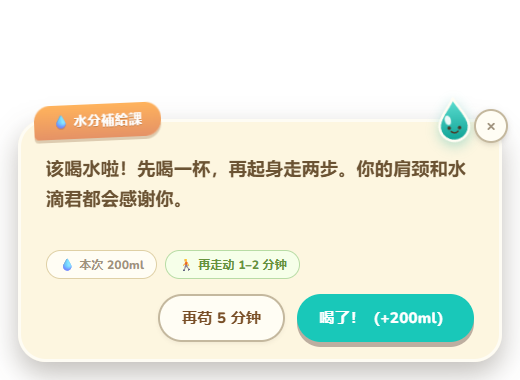
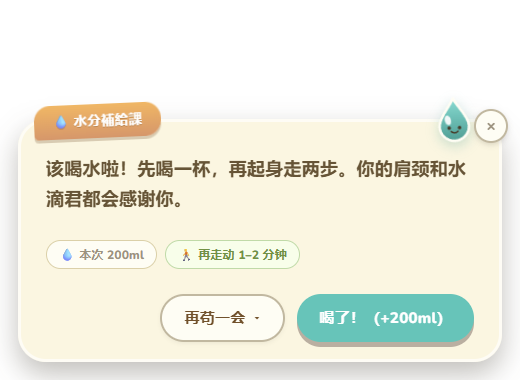
release: prepare v1.3.0

diff --git a/test/release-workflow.test.js b/test/release-workflow.test.js
@@ -61,12 +61,27 @@ test('release workflow validates a stable main-branch tag and publishes one port
   assert.match(workflow, /GH_TOKEN:\s*\$\{\{\s*secrets\.GITHUB_TOKEN\s*\}\}/);
 });
 
-test('download and maintainer release documentation expose the release contract', () => {
+test('v1.3.0 download and maintainer documentation expose the release contract', () => {
   const readme = readRequired('README.md');
   const releasing = readRequired('docs/RELEASING.md');
+  const packageJson = JSON.parse(readRequired('package.json'));
+  const packageLock = JSON.parse(readRequired('package-lock.json'));
 
+  assert.equal(packageJson.version, '1.3.0');
+  assert.equal(packageLock.version, '1.3.0');
+  assert.equal(packageLock.packages[''].version, '1.3.0');
   assert.match(readme, /https:\/\/github\.com\/mosaic-dng\/GokuGoku\/releases\/latest/);
   assert.equal((readme.match(/docs\/RELEASING\.md/g) || []).length, 2);
+  assert.match(readme, /GokuGoku-v1\.3\.0-Windows-x64\.zip/);
+  assert.match(readme, /当前 v1\.3\.0 验收结果/);
+  assert.match(readme, /76\s*\/\s*76/);
+  assert.match(readme, /Electron 验收覆盖 9 张截图/);
+  assert.match(readme, /docs\/screenshots\/reminder-snooze-menu\.png/);
+  assert.match(readme, /5、15、30 分钟/);
+  assert.equal(
+    fs.existsSync(path.join(root, 'docs', 'screenshots', 'reminder-snooze-menu.png')),
+    true,
+  );
   assert.match(releasing, /GokuGoku-v1\.2\.3-Windows-x64\.zip/);
   assert.match(releasing, /git tag -a v1\.1\.0/);
   assert.match(releasing, /npm version (?:patch|minor|major)/);

diff --git a/README.md b/README.md
@@ -23,7 +23,7 @@
 - 根据体重估算全天饮水参考量，并按分钟级工作时长计算上班目标。
 - 自定义每次喝水量、催水间隔、`HH:MM` 上下班时间与多个免打扰时段。
 - 只在允许的工作时段提醒；周末、午休、会议或下班后保持安静。
-- 提醒窗口会等待你选择喝水、稍后提醒或关闭，也可以附带起身活动提示。
+- 提醒窗口会等待你选择喝水、关闭或延后 5、15、30 分钟，也可以附带起身活动提示。
 - 主窗口、提醒窗口与托盘支持快速打卡，误点后可在短时间内撤销。
 - 进度条、杯子、水滴君和提示信息带有克制的状态动效。
 - 遵循 `prefers-reduced-motion`，减少漂浮、位移、打字机和弹跳效果。
@@ -54,16 +54,23 @@
 
 ### 催水提醒
 
-<p align="center">
-  <img src="docs/screenshots/reminder.png" width="520" alt="GokuGoku 催水提醒窗口">
-</p>
+<table>
+  <tr>
+    <td align="center"><img src="docs/screenshots/reminder.png" width="360" alt="GokuGoku 催水提醒窗口"></td>
+    <td align="center"><img src="docs/screenshots/reminder-snooze-menu.png" width="360" alt="GokuGoku 延后提醒菜单"></td>
+  </tr>
+  <tr>
+    <td align="center">喝水、活动与本次杯量提示</td>
+    <td align="center">选择 5、15 或 30 分钟后再提醒</td>
+  </tr>
+</table>
 
 ## 下载与使用
 
 前往 [GitHub Releases](https://github.com/mosaic-dng/GokuGoku/releases/latest) 下载：
 
 ```text
-GokuGoku-v1.2.1-Windows-x64.zip
+GokuGoku-v1.3.0-Windows-x64.zip
 ```
 
 解压 ZIP 后运行 `GokuGoku.exe`。这是免安装便携目录，请保留解压后的全部文件，不要只单独复制 EXE。
@@ -120,12 +127,12 @@ npm run pack:win
 npm run verify:win
 ```
 
-当前 v1.2.1 验收结果：
+当前 v1.3.0 验收结果：
 
-- `67 / 67` 项自动化测试通过。
-- Electron 验收覆盖首次设置、两步设置、主界面、展开设置、喝水、撤销和提醒窗口。
+- `76 / 76` 项自动化测试通过。
+- Electron 验收覆盖 9 张截图，包括首次设置、两步设置、主界面、展开设置、喝水、撤销、提醒窗口和延后菜单。
 - 便携目录约 `301.90 MiB`。
-- 发布 ZIP 约 `126.06 MiB`。
+- 发布 ZIP 约 `126.07 MiB`。
 - 生产目录仅保留 `zh-CN.pak` 与 `en-US.pak`。
 - Chromium、GPU、D3D、Vulkan、ICU 与许可证文件均保留。
 
